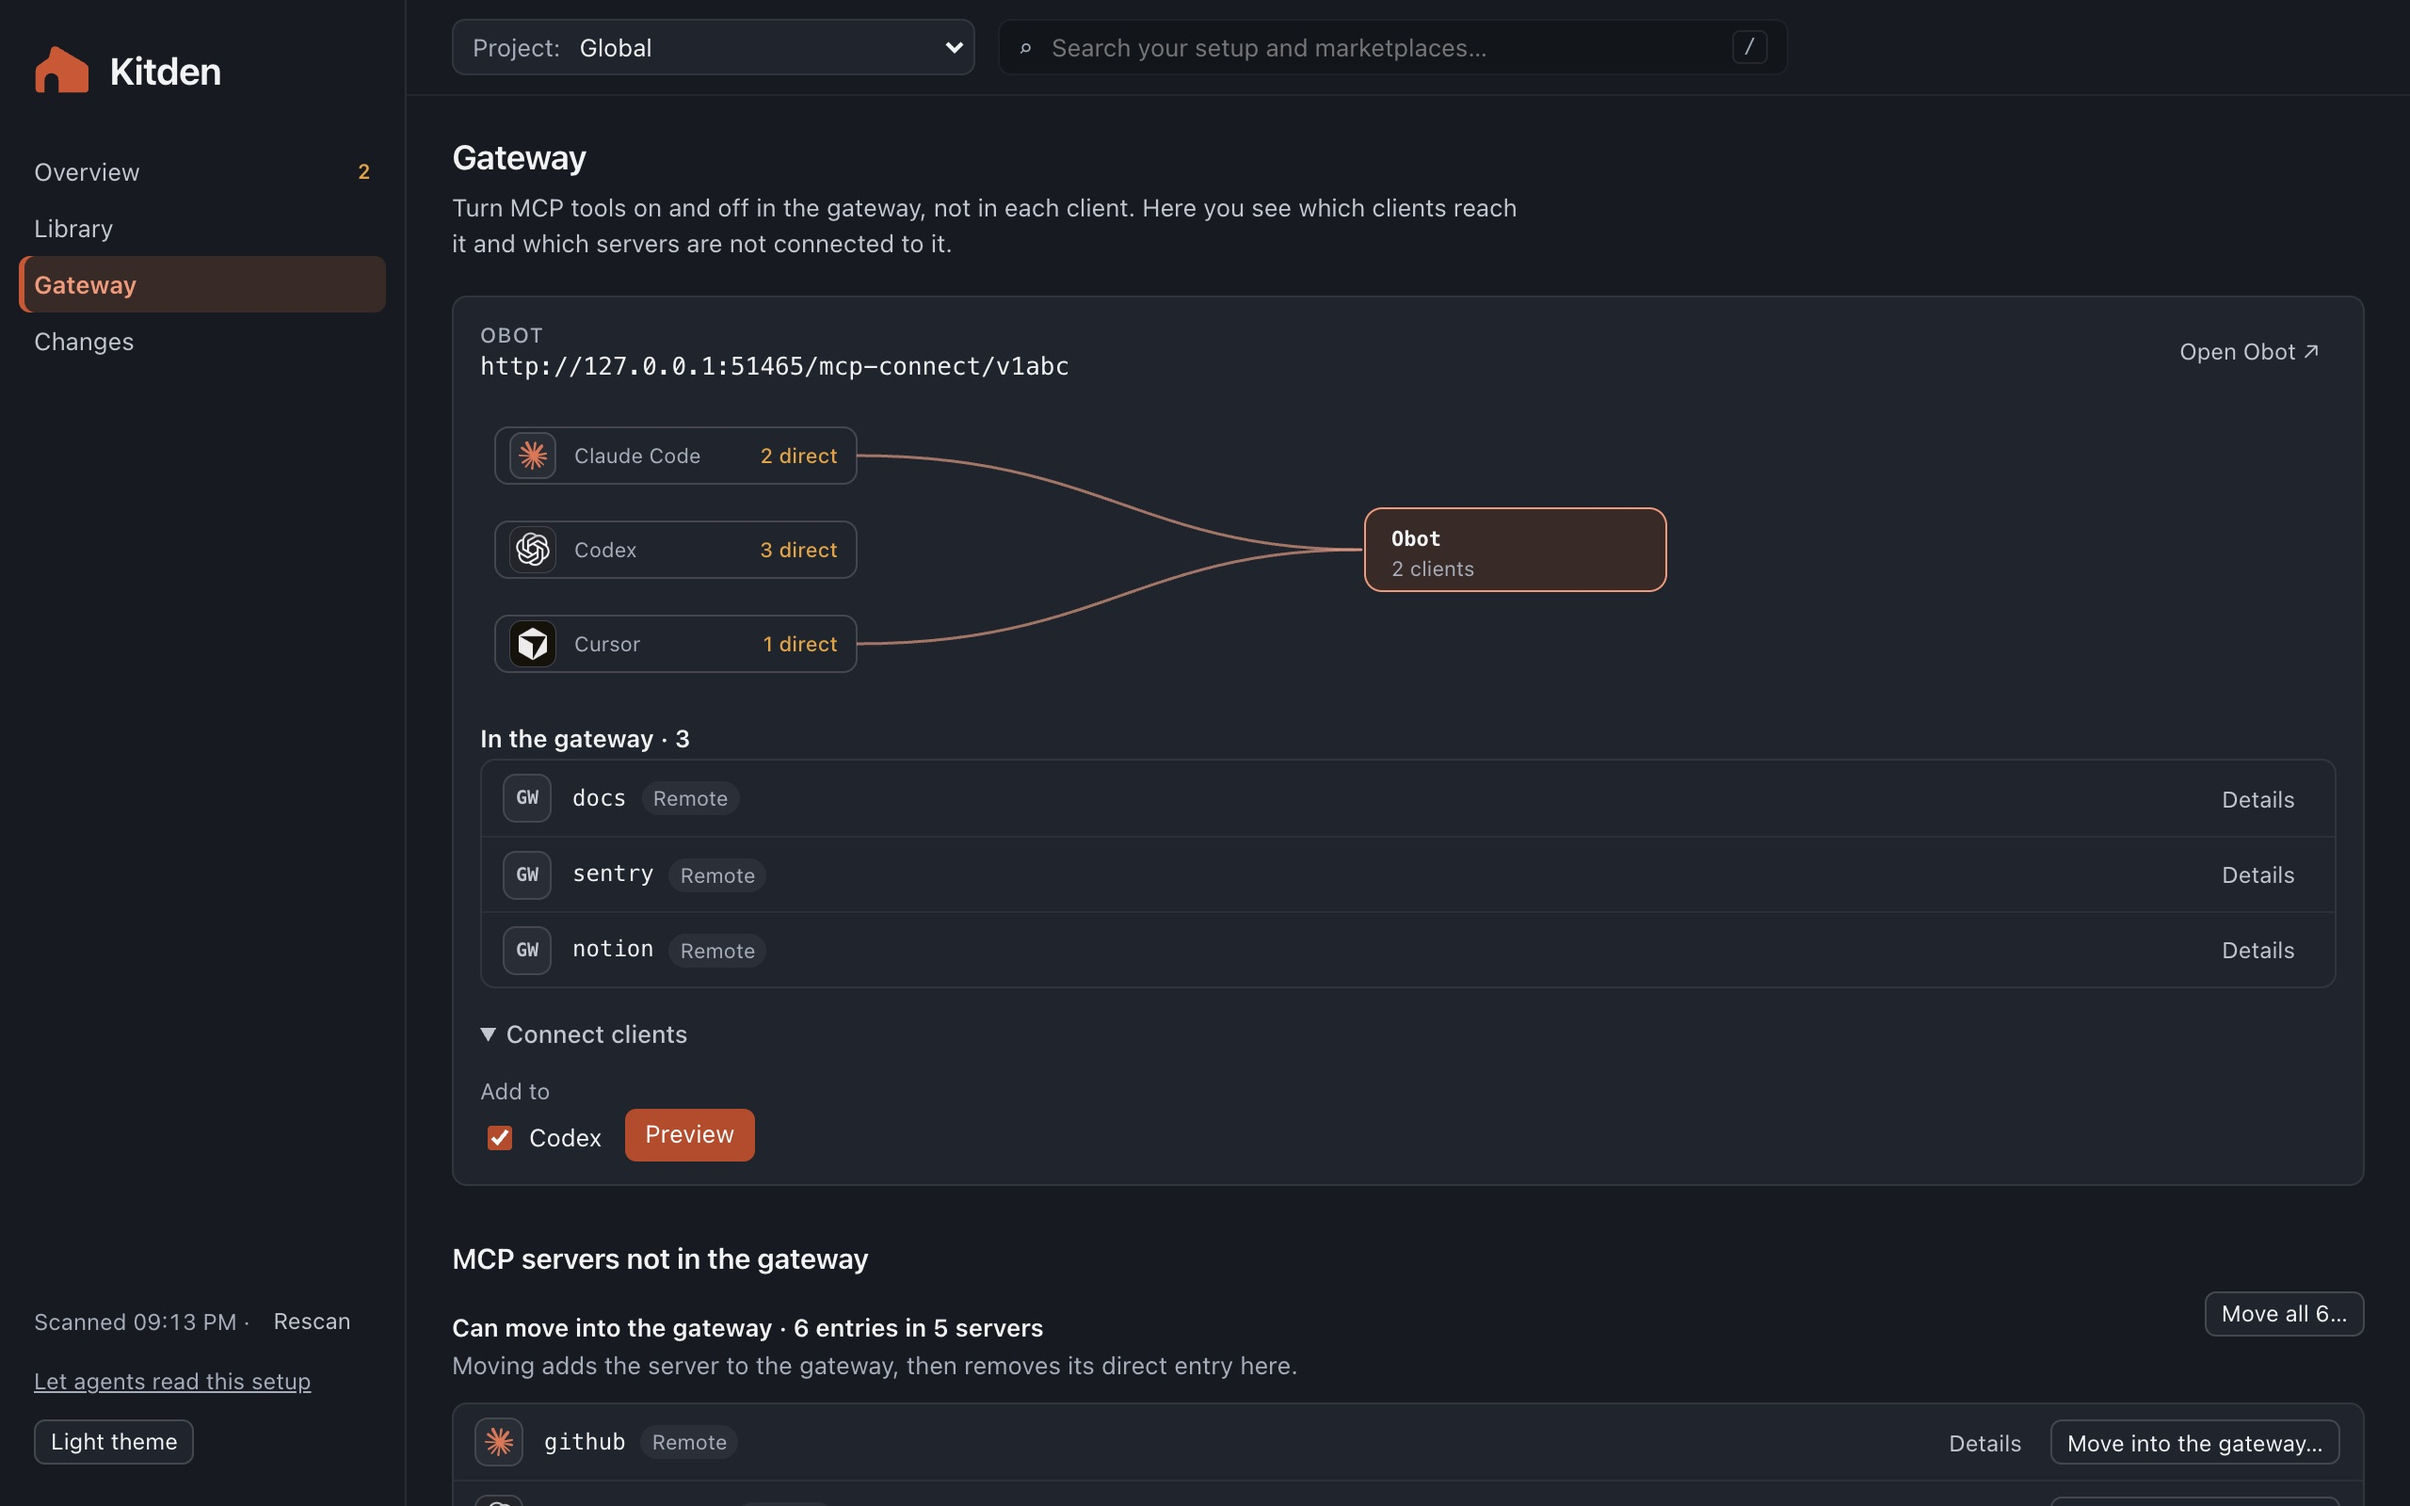
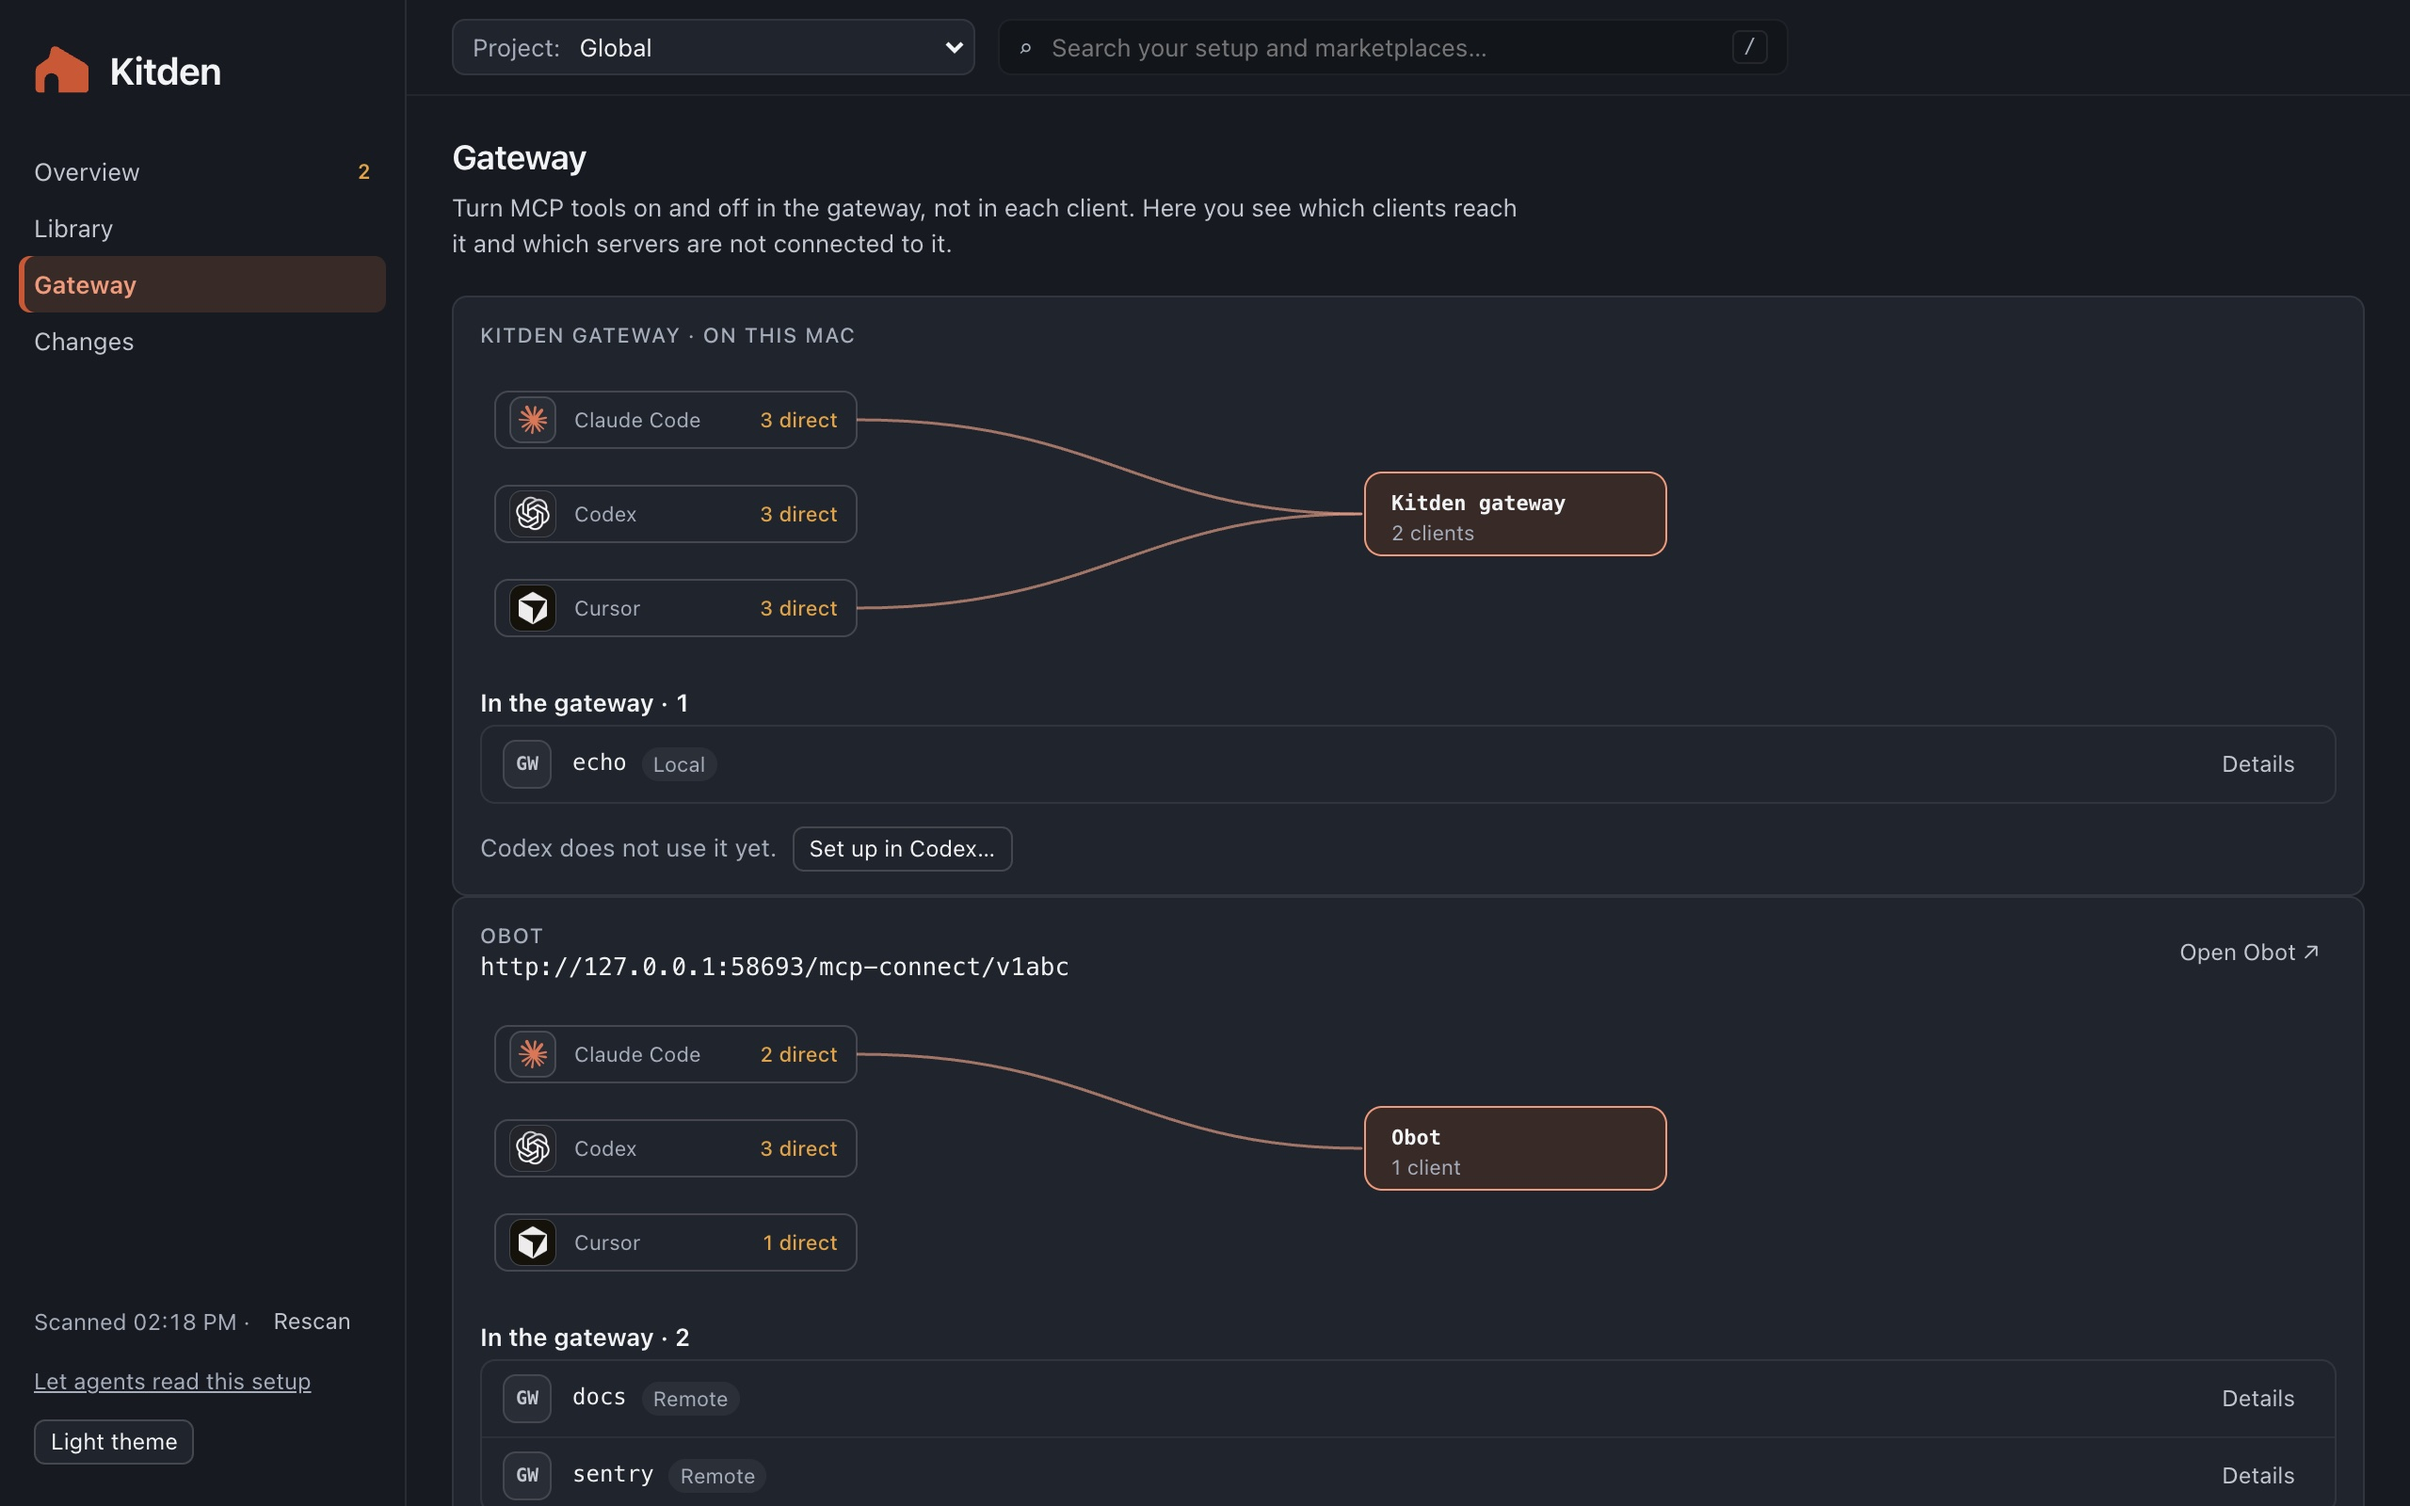
Docs: the Kitden gateway
README, design, development notes and roadmap describe tools per project.
The Gateway pictures now show the Kitden gateway first.

diff --git a/README.md b/README.md
@@ -61,17 +61,40 @@ cell with nothing to do says why. You can also add a marketplace from a folder o
 
 ### Use one gateway for every client
 
-**Gateway** works with [Obot](https://obot.ai) (with OAuth sign-in) and MetaMCP. Connect your
-clients, see what the gateway holds and which servers go around it, and move direct servers into
-it one at a time or all at once. Switch every client to another gateway in one review. Click a
-client in the diagram to open its app.
+**Gateway** shows the gateways your clients use. The Kitden gateway comes first: it runs on your
+Mac, with no deploy and no account. [Obot](https://obot.ai) (with OAuth sign-in) and MetaMCP stay
+for teams that want a shared service. Connect your clients, see what a gateway holds and which
+servers go around it, and move direct servers into it one at a time or all at once. Switch every
+client to another Obot or MetaMCP gateway in one review. Click a client in the diagram to open its
+app.
 
 <p align="center">
   <picture>
     <source media="(prefers-color-scheme: dark)" srcset="https://raw.githubusercontent.com/KonstantinStarovoytov/kitden/main/docs/images/gateway-dark.jpg">
-    <img src="https://raw.githubusercontent.com/KonstantinStarovoytov/kitden/main/docs/images/gateway.jpg" alt="Gateway: Claude Code, Codex and Cursor linked to an Obot gateway, what the gateway holds, and servers that can move into it" width="860">
+    <img src="https://raw.githubusercontent.com/KonstantinStarovoytov/kitden/main/docs/images/gateway.jpg" alt="Gateway: the Kitden gateway first, with Claude Code and Cursor linked to it and one server it holds, then an Obot gateway below" width="860">
   </picture>
 </p>
+
+### The Kitden gateway: tools per project
+
+The Kitden gateway is the `kitden` entry that already lets agents read your setup; the page adds
+it to a client that lacks it. Move a server into it and every client reaches it there. Pick a
+project at the top, open a held server's Details, and turn the whole server or one tool on or off
+for that project, or for all projects. Claude Code and Codex can turn a tool off in one project,
+Cursor cannot (checked 2026-10-21); the gateway gives the same control in all three.
+
+It holds local servers (a command) and remote ones (an address). Each switch is a review with a
+backup and Undo. Moving a server keeps the tool rules Claude Code and Codex had; Cursor's own
+tool switches do not carry over. A change applies to new sessions, so start a new one in your
+client.
+
+A few servers stay direct for now, and the page says why:
+
+- servers that need an OAuth sign-in (one place for logins comes later);
+- entries in a project's own files, such as `.mcp.json`: they are already per project;
+- entries that read a value from your shell, such as `${TOKEN}`: the gateway starts without your
+  shell;
+- entries that start in their own folder.
 
 ### Check every change before it is written
 
@@ -90,7 +113,7 @@ a change to take effect.
 ### Let your agents ask
 
 **Agents** adds a read-only MCP server to Claude Code, Codex or Cursor, so you can ask your agent
-"show my setup". It cannot change anything.
+"show my setup". Its own tools cannot change anything.
 
 ## Install
 
@@ -133,9 +156,9 @@ Linux and Windows are not supported yet.
 3. You press Apply. Kitden backs the file up, writes the change and checks it. Undo brings the old
    file back. Backups stay for 30 days, and the newest 100 changes always keep theirs.
 
-Secrets are never shown or logged. Kitden goes online only to reach the gateways you add, and to
-read one marketplace file from `raw.githubusercontent.com` when you add a marketplace from a
-GitHub link.
+Secrets are never shown or logged. Kitden goes online only to reach the gateways and remote
+servers you add, and to read one marketplace file from `raw.githubusercontent.com` when you add a
+marketplace from a GitHub link.
 
 ## Roadmap
 

diff --git a/docs/design.md b/docs/design.md
@@ -62,6 +62,15 @@ The Library has one row per item and one column per client found on this compute
 
 Every pressable area is at least 24 px tall and wide (WCAG 2.2 AA target size, checked 2026-10-19). The plugin switch keeps its 34 x 20 track inside a 24 px button, and a client checkbox is pressed through its 24 px label.
 
+The Gateway page lists the Kitden gateway first, then any registered gateway (Obot, MetaMCP). Its rows show a name and flags; the command and address stay in Details.
+
+| Part | Look |
+| --- | --- |
+| Kitden gateway card | The kicker "Kitden gateway · On this Mac", the route diagram (a wire to each client whose `kitden` entry is on), then "In the gateway · N": a name, a Local or Remote flag, an Off flag where it is off, and Details. A client without the entry gets a quiet line, "Codex does not use it yet.", and "Set up in Codex…". |
+| Tool switches | In a held server's Details: "Tools · {project folder}" or "Tools · All projects", then "Whole server" first and one row with a switch per tool (name in mono, description cut at two lines). A project row that differs shows "Differs from all projects" and a "Use all projects" button. |
+| A switch changes | It rests half-way while the preview loads, then opens the review. The switch flips only after `verified`: Details stays open and is drawn again in the new state, the thumb slides once (`.switch.flipped`), focus is on that switch, and the toast has Undo. Cancel, or a refused preview (a callout says why), also comes back to Details, with focus on the switch. |
+| Move choice | "Move into the gateway…" asks only when there is a choice: "Move into the Kitden gateway…" first (primary), a registered gateway second (plain). With one choice the review opens at once. A local server can go only into the Kitden gateway. |
+
 Keep existing system fonts and motion, keyboard focus, and reduced-motion support. Search and project controls show a visible focus outline. Preserve explicit Apply, backup and Undo semantics. Brand color must not imply success or a safe action.
 
 ## Motion
@@ -126,7 +135,8 @@ All helpers live in `src/kitden/web/static/js/motion.js`.
 | Arrival | `.arrive` row glow + `.pulse` socket ping | Coming from a finding |
 | Add lands | `.socket.pulse` on a cell that held a button | Library after a verified add |
 | First visit | `entrance(place, nodes)` | Every place, once |
-| Pending switch | `.switch.pending` (thumb half-way) | Plugin switch while the preview loads |
+| Pending switch | `.switch.pending` (thumb half-way) | Plugin and tool switches while the preview loads |
+| Flipped switch | `.switch.flipped`: the thumb slides once into the verified state | Tool switch, after Apply or Undo is verified |
 | Busy button | `busyWhile(button, work)` (dom.js); `button()` uses it | Every button that waits on the server; quick work never shows it |
 | Step count | `change_progress` events → "Applying 2 of 5" + `.btn .meter` | Apply of a change with several steps, from the server's own count |
 | Applied | `.btn.primary.done` (green at once, full strength) + drawn check | Review footer, after `verified` |

diff --git a/docs/development.md b/docs/development.md
@@ -21,6 +21,7 @@ framework, no bundler, nothing loaded from another site. How it looks and moves:
 | `src/kitden/changes/` | Preview, Apply with backup, verify, Undo |
 | `src/kitden/views/` | What the page and the read-only MCP server show |
 | `src/kitden/gateway_api.py` | MetaMCP and Obot |
+| `src/kitden/local_gateway/` | The Kitden gateway: settings and rules, project finding, the proxy inside `kitden mcp` |
 | `src/kitden/web/` | The local page |
 | `plugins/kitden/` | The plugin for Claude Code and Codex |
 
@@ -31,7 +32,19 @@ framework, no bundler, nothing loaded from another site. How it looks and moves:
 | `kitden` / `kitden open` | Opens the page; it stops 10 minutes after its last tab closes |
 | `kitden serve` | Runs the page in the terminal until Ctrl+C |
 | `kitden scan --json` | Prints what the page shows and exits |
-| `kitden mcp` | The read-only "show my setup" server that clients start |
+| `kitden mcp` | The "show my setup" server that clients start; it also offers the tools of servers moved into the Kitden gateway |
+
+## Check before a release
+
+The tests use fake servers. Before a release that touches the Kitden gateway, check it once by
+hand in each of Claude Code, Codex and Cursor, on a test project (a throwaway folder; never your
+own project):
+
+1. In the page, move a server with a few tools into the Kitden gateway, and set up the `kitden`
+   entry in the client if it lacks one.
+2. Pick the test project at the top and turn one tool off for it.
+3. Start a new session in that folder. The tool is gone; the others are still there.
+4. Undo the switch and the move. Start a new session; the server is direct again with its tool.
 
 ## Release
 
@@ -50,6 +63,12 @@ with trusted publishing and creates the GitHub release with the notes file as it
 
 ## Gateways
 
+- **Kitden gateway** — the servers and rules are `gateway.json` (mode 600) and the tool lists are
+  `gateway-tools.json`, both in `~/Library/Application Support/kitden`. Only `gateway.json`
+  changes through review and Undo. `kitden mcp` finds the project once, at start: the
+  `CLAUDE_PROJECT_DIR` variable, then the client's roots, then `WORKSPACE_FOLDER_PATHS`, then its
+  start folder. Codex keeps a tool list for up to 30 minutes and ignores "list changed" (checked
+  2026-10-21), so the tools are fixed for a session and a change applies to new sessions.
 - **Obot** — sign in with OAuth; Kitden reads it with an API key from
   `obot login --url <obot> --scope api --scope all-mcp --print-token`, kept in an environment
   variable. Do not run `obot setup`: it edits client files without a backup.

diff --git a/ROADMAP.md b/ROADMAP.md
@@ -21,15 +21,12 @@ What Kitden does today and what comes next. Ideas and bugs:
 - **Categories:** filter plugins and skills by category. The category shows quietly in each row.
 - **Quick start:** the page has its data in about two seconds. Codex's slow plugin list comes in
   the background, and a line shows what is still read.
-- **Quick start:** the page has its data in about two seconds. Codex's slow plugin list comes in
-  the background, and a line shows what is still read.
-- **Kitden gateway (in progress):** `kitden mcp` also offers the tools of the servers moved into
-  it, only those turned on for the session's project. Moving a server in is one review with Undo
-  and keeps the tool rules Codex and Claude Code had; local servers can move in too. The Gateway
-  page shows it first: the clients with the `kitden` entry, the servers it holds, and "Set up in"
-  for a client without the entry. A held server's Details has a switch for the whole server and
-  for each tool, for the project picked at the top; each switch is one review with Undo. The
-  README and a check in each client come next.
+- **Kitden gateway:** `kitden mcp` also holds MCP servers, local or remote, with no deploy and no
+  account. Pick a project on the Gateway page and turn a whole server or single tools on or off
+  for it, in every client; each switch is one review with Undo and applies to new sessions.
+  Moving a server in keeps the tool rules Claude Code and Codex had. OAuth servers, entries in a
+  project's own files, entries that read values from your shell and entries with their own
+  folder stay direct for now. Obot and MetaMCP stay for teams.
 
 ### 0.2.0
 
@@ -70,5 +67,9 @@ What Kitden does today and what comes next. Ideas and bugs:
 ## Later
 
 - Remove a plugin.
+- Logins in one place: sign in once to servers that need OAuth, keep secrets in the keychain, and
+  let those servers move into the Kitden gateway too.
+- Skills per project: turn skills on or off for one project, as tools are today.
+- Overview suggests moving servers into the Kitden gateway.
 - A living map: clients → config files → servers, plugins, skills → gateways.
 - A shared setup for a small team.

diff --git a/plugins/kitden/README.md b/plugins/kitden/README.md
@@ -3,7 +3,8 @@
 Adds to Claude Code or Codex:
 
 - the skill `setup`: how to answer "what loads here" and when to open the Kitden page;
-- the read-only MCP server `kitden`, started as `kitden mcp`. It only reads.
+- the MCP server `kitden`, started as `kitden mcp`. Its own tools only read. It also offers the
+  tools of servers moved into the Kitden gateway.
 
 It needs Kitden installed on this computer: see the install line in the
 [Kitden README](https://github.com/KonstantinStarovoytov/kitden#install). Without it, the client shows the server as failed and the skill
